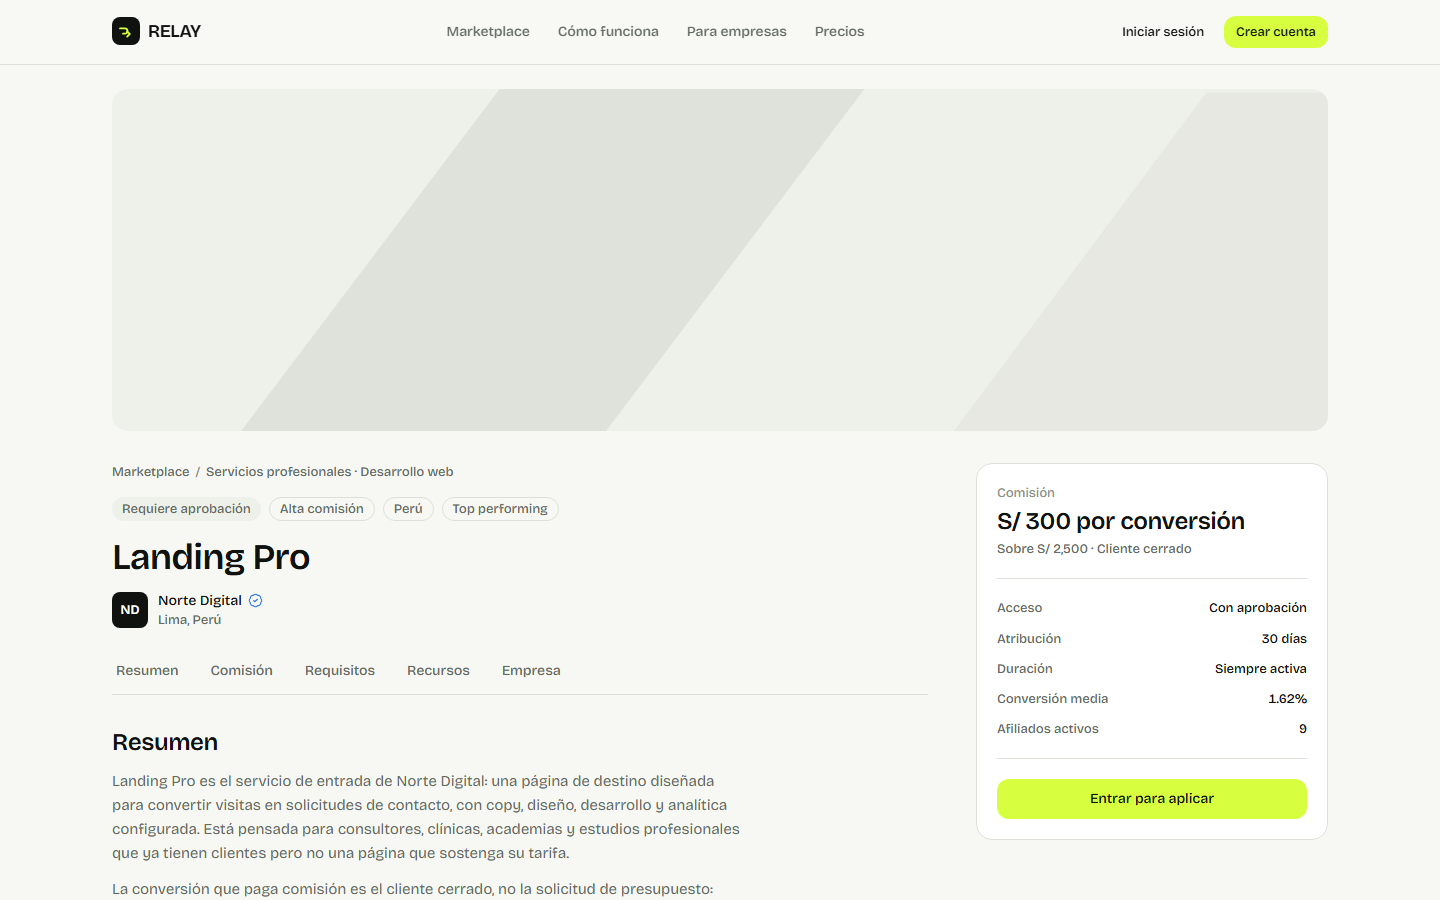
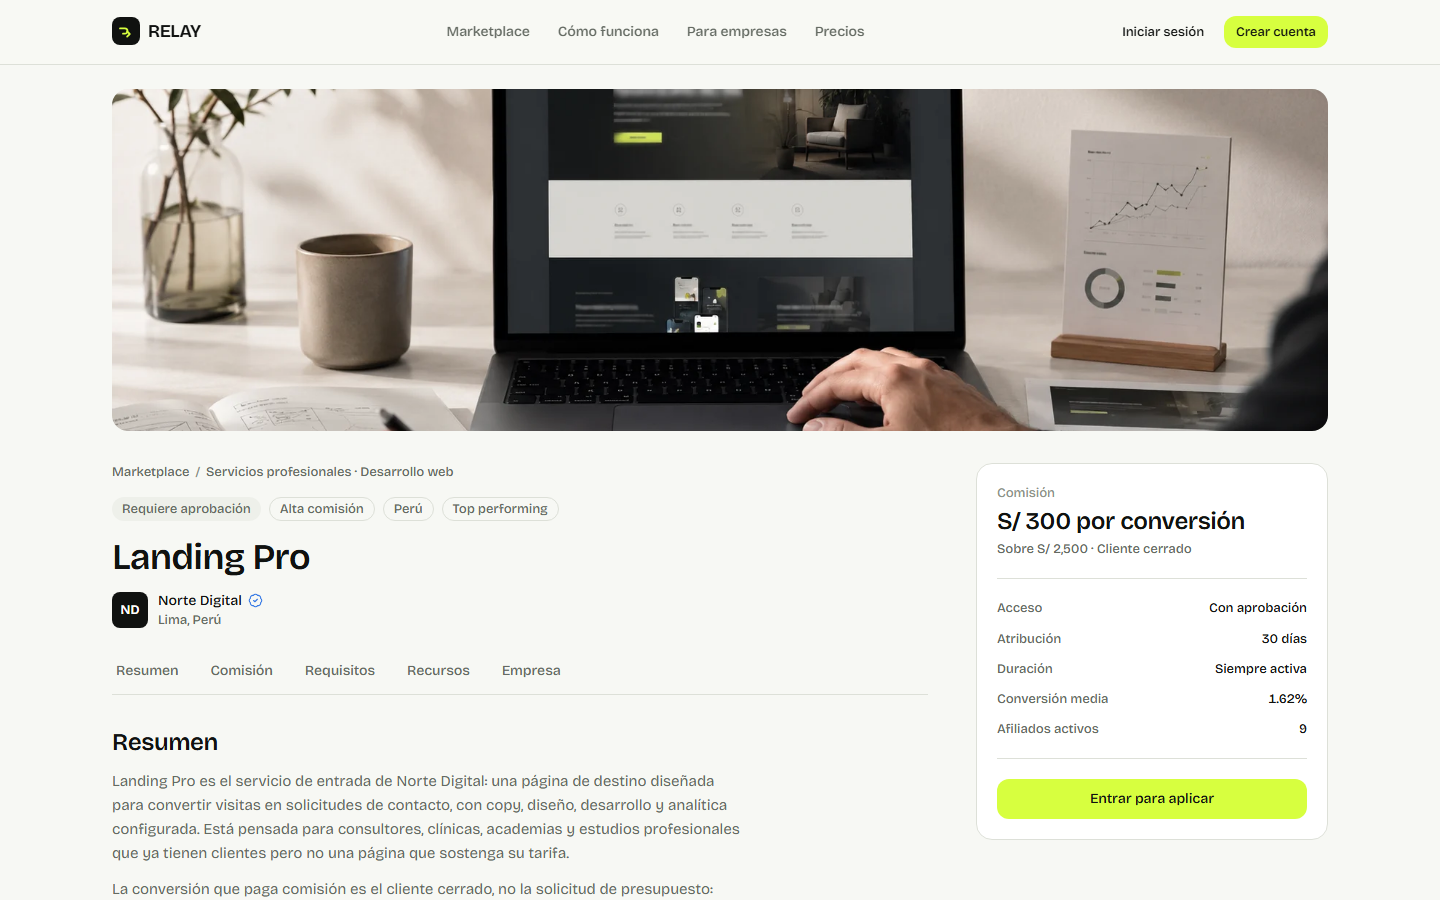
Integra las once portadas de campaña
Las imágenes de origen llegaron en PNG a 1672×941 y con el nombre de otra
campaña en siete de los once casos: una esterilla de yoga bajo
«membresia-profesional», una calculadora con informes contables bajo
«growth-bootcamp», una página de destino terminada bajo
«automatiza-tu-operacion». La correspondencia se ha decidido mirando cada
archivo, y queda documentada en el propio script de conversión.

La conversión a WebP la hace el navegador que ya trae Playwright, así que no
entra ninguna dependencia binaria nueva. La resolución de origen se respeta tal
cual —ni se amplía a 1920×1080, que sería inventar detalle, ni se deforma— y la
calidad baja solo lo justo para entrar en el presupuesto: nueve archivos a
q0.86, uno a q0.82 y uno a q0.74. Las once portadas quedan entre 64 y 107 kB,
964 kB en total, desde los 20 MB de los originales.

Los PNG originales quedan en `source-images/`, fuera del repositorio: no deben
publicarse ni acabar en el bundle.

Cada campaña declara ahora su `image` con un texto alternativo que describe lo
que se ve, no el nombre de la campaña. El placeholder geométrico sigue siendo
la alternativa cuando no hay imagen.

Único cambio de componente, y necesario: la portada de la ficha usaba 32/9 a
cualquier ancho, y en móvil eso dejaba una franja de 98 px donde no cabe
ninguna escena. Pasa a 16/9 por debajo de `lg` y mantiene 32/9 a partir de ahí.

Medido sobre la compilación de producción: CLS 0.000 en escritorio y en móvil,
[…]

Changed region(s): [[0.0625, 0.0933, 0.9375, 0.4978]]

diff --git a/src/app/data/seed/campaigns.seed.ts b/src/app/data/seed/campaigns.seed.ts
@@ -148,6 +148,10 @@ export const CAMPAIGNS: readonly Campaign[] = [
     metrics: { activeAffiliates: 9, conversionRate: 1.62, conversions: 34, clicks: 2100 },
 
     cover: 'servicios-01',
+    image: {
+      src: '/campanas/landing-pro.webp',
+      alt: 'Un portátil muestra una página de destino terminada; al lado, un cuaderno con los bocetos de esa misma pantalla y una gráfica de conversiones impresa',
+    },
     createdAt: '2026-02-03',
     publishedAt: '2026-02-10',
   },
@@ -237,6 +241,10 @@ export const CAMPAIGNS: readonly Campaign[] = [
     metrics: { activeAffiliates: 48, conversionRate: 2.35, conversions: 186, clicks: 7900 },
 
     cover: 'tecnologia-01',
+    image: {
+      src: '/campanas/workspace-plus.webp',
+      alt: 'Alguien trabaja en un portátil con un tablero de tarjetas repartidas por columnas mientras anota en un cuaderno abierto',
+    },
     createdAt: '2025-07-01',
     publishedAt: '2025-07-08',
   },
@@ -337,6 +345,10 @@ export const CAMPAIGNS: readonly Campaign[] = [
     metrics: { activeAffiliates: 21, conversionRate: 1.28, conversions: 62, clicks: 4800 },
 
     cover: 'educacion-01',
+    image: {
+      src: '/campanas/growth-bootcamp.webp',
+      alt: 'Cuatro personas sentadas alrededor de una mesa de madera toman notas en sus cuadernos mientras revisan documentos impresos y un portátil',
+    },
     createdAt: '2026-04-18',
     publishedAt: '2026-04-25',
   },
@@ -422,6 +434,10 @@ export const CAMPAIGNS: readonly Campaign[] = [
     metrics: { activeAffiliates: 7, conversionRate: 1.1, conversions: 14, clicks: 1270 },
 
     cover: 'marketing-01',
+    image: {
+      src: '/campanas/brand-sprint.webp',
+      alt: 'Dos manos colocan muestras de color y de material sobre un esquema dibujado a lápiz en una lámina grande, junto a un cuaderno de bocetos',
+    },
     createdAt: '2026-06-09',
     publishedAt: '2026-06-16',
   },
@@ -527,6 +543,10 @@ export const CAMPAIGNS: readonly Campaign[] = [
     metrics: { activeAffiliates: 4, conversionRate: 2.9, conversions: 11, clicks: 380 },
 
     cover: 'servicios-02',
+    image: {
+      src: '/campanas/revenue-systems.webp',
+      alt: 'Escritorio en penumbra con un portátil y una tableta mostrando paneles de gráficos, e informes impresos apilados a un lado',
+    },
     createdAt: '2025-10-14',
     publishedAt: '2025-10-21',
   },
@@ -601,6 +621,10 @@ export const CAMPAIGNS: readonly Campaign[] = [
     metrics: { activeAffiliates: 33, conversionRate: 3.1, conversions: 240, clicks: 7740 },
 
     cover: 'membresias-01',
+    image: {
+      src: '/campanas/membresia-profesional.webp',
+      alt: 'Plantillas impresas ordenadas sobre una mesa clara, con una tableta que muestra una lista de tareas y una carpeta de trabajo cerrada',
+    },
     createdAt: '2025-08-02',
     publishedAt: '2025-08-11',
   },
@@ -688,6 +712,10 @@ export const CAMPAIGNS: readonly Campaign[] = [
     metrics: { activeAffiliates: 6, conversionRate: 1.34, conversions: 9, clicks: 670 },
 
     cover: 'servicios-03',
+    image: {
+      src: '/campanas/estrategia-de-marca.webp',
+      alt: 'Fotografías y muestras de material extendidas sobre una mesa a modo de panel de referencias, mientras dos personas eligen piezas y dibujan en un cuaderno',
+    },
     createdAt: '2026-03-05',
     publishedAt: '2026-03-12',
   },
@@ -755,6 +783,10 @@ export const CAMPAIGNS: readonly Campaign[] = [
     metrics: { activeAffiliates: 9, conversionRate: 1.8, conversions: 22, clicks: 1220 },
 
     cover: 'finanzas-01',
+    image: {
+      src: '/campanas/cierre-mensual.webp',
+      alt: 'Una mano teclea en una calculadora junto a un portátil con una hoja de cálculo abierta y varios informes financieros impresos',
+    },
     createdAt: '2026-04-02',
     publishedAt: '2026-04-09',
   },
@@ -812,6 +844,10 @@ export const CAMPAIGNS: readonly Campaign[] = [
     metrics: { activeAffiliates: 15, conversionRate: 1.05, conversions: 48, clicks: 4570 },
 
     cover: 'salud-01',
+    image: {
+      src: '/campanas/plan-doce-semanas.webp',
+      alt: 'Una esterilla enrollada, una botella de agua y un cuaderno de seguimiento abierto sobre el suelo, con una mano pasando la página',
+    },
     createdAt: '2026-01-20',
     publishedAt: '2026-01-27',
   },
@@ -870,6 +906,10 @@ export const CAMPAIGNS: readonly Campaign[] = [
     metrics: { activeAffiliates: 5, conversionRate: 1.4, conversions: 12, clicks: 860 },
 
     cover: 'productividad-01',
+    image: {
+      src: '/campanas/automatiza-tu-operacion.webp',
+      alt: 'Un monitor muestra un diagrama de flujo con pasos conectados entre sí, y el mismo esquema aparece impreso sobre el escritorio junto a una mano en el ratón',
+    },
     createdAt: '2026-05-11',
     publishedAt: '2026-05-18',
   },
@@ -927,6 +967,10 @@ export const CAMPAIGNS: readonly Campaign[] = [
     metrics: { activeAffiliates: 3, conversionRate: 0.9, conversions: 4, clicks: 440 },
 
     cover: 'marketing-02',
+    image: {
+      src: '/campanas/kit-de-lanzamiento.webp',
+      alt: 'Un portátil con un tablero de tareas repartidas por columnas sobre una mesa blanca, mientras una mano escribe en un cuaderno',
+    },
     createdAt: '2026-07-14',
     publishedAt: '2026-07-21',
   },

diff --git a/src/app/domain/campaign-cover/campaign-cover.ts b/src/app/domain/campaign-cover/campaign-cover.ts
@@ -149,7 +149,7 @@ export class CampaignCover {
         sm: 'aspect-[16/9]',
         md: 'aspect-[16/9]',
         lg: 'aspect-[21/9]',
-        hero: 'aspect-[32/9]',
+        hero: 'aspect-[16/9] lg:aspect-[32/9]',
       }[this.size()],
     ].join(' '),
   );
